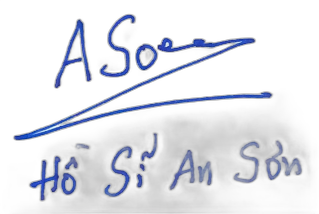
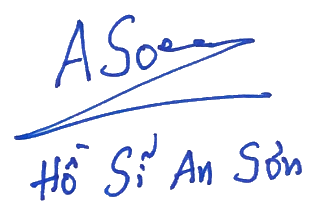
1

Changed region(s): [[0.0846, 0.5607, 0.9592, 1.0], [0.0282, 0.0561, 0.8464, 0.6729]]

diff --git a/cmd/window/edoc_rembg.py b/cmd/window/edoc_rembg.py
@@ -1,0 +1,44 @@
+import argparse
+import os
+import cv2
+from PIL import Image
+
+
+def naive_cutout(img, mask):
+    empty = Image.new("RGBA", (img.size), 0)
+    cutout = Image.composite(img, empty, mask.resize(img.size, Image.LANCZOS))
+    return cutout
+
+
+def remove_background_signature(image_path, output_path):
+    image = cv2.imread(image_path)
+    image = cv2.cvtColor(image, cv2.COLOR_BGR2RGB)
+    gray = cv2.cvtColor(image, cv2.COLOR_BGR2GRAY)
+    blur = cv2.GaussianBlur(gray, (3, 3), 0)
+    thresh = cv2.threshold(blur, 0, 255, cv2.THRESH_BINARY_INV + cv2.THRESH_OTSU)[1]
+    mask = Image.fromarray(thresh).convert("L")
+    img = Image.fromarray(image).convert("RGB")
+    cutout = naive_cutout(img, mask)
+    cutout.save(output_path)
+
+
+def main():
+    ap = argparse.ArgumentParser()
+    ap.add_argument(
+        "-i",
+        "--input",
+        type=str
+    )
+
+    ap.add_argument(
+        "-o",
+        "--output",
+        type=str
+    )
+    args = ap.parse_args()
+    remove_background_signature(args.input, args.output)
+
+
+if __name__ == "__main__":
+    # torch.multiprocessing.set_start_method('spawn')
+    main()

diff --git a/helper/u2net/detect.py b/helper/u2net/detect.py
@@ -1,9 +1,11 @@
-from helper.u2net import u2net, data_loader
-import torch
 import os
+
 import numpy as np
-from torchvision import transforms
+import torch
 from PIL import Image
+from torchvision import transforms
+
+from helper.u2net import u2net, data_loader
 
 
 def load_model(model_name: str = "u2net"):
@@ -12,7 +14,10 @@ def load_model(model_name: str = "u2net"):
         path = '../models/u2net.pth'
     elif model_name == "u2netp":
         net = u2net.U2NETP(3, 1)
-        path = 'D:/Repositories/RemoveBg-Python/helper/models/u2netp.pth'
+        path = os.environ.get(
+            "U2NETP_PATH",
+            os.path.expanduser(os.path.join("~", ".u2net", model_name + ".pth")),
+        )
 
     if torch.cuda.is_available():
         net.load_state_dict(torch.load(path))

diff --git a/main.py b/main.py
@@ -1,5 +1,3 @@
-import matplotlib.pyplot as plt
-
 from helper import bg
 
 alpha_matting = False
@@ -9,7 +7,7 @@ ae = 10
 az = 1000
 model_name = "u2netp"
 
-with open('data/HinhChuKy6.png', 'rb') as fh:
+with open('data/HinhChuKy1.png', 'rb') as fh:
     buf = fh.read()
 
 img_remove = bg.remove(buf, model_name, alpha_matting)
@@ -19,4 +17,4 @@ img_remove = bg.remove(buf, model_name, alpha_matting)
 # plt.imshow(img_remove)
 # plt.show()
 
-img_remove.save('data/Results/HinhChuKy6_rembg.png')
+img_remove.save('data/Results/HinhChuKy1_rembg.png')

diff --git a/helper/bg.py b/helper/bg.py
@@ -168,6 +168,7 @@ def remove(
     img = Image.open(io.BytesIO(data)).convert("RGB")
     mask = detect.predict(model, np.array(img)).convert("L")
 
+    # mask.save(f"D:\Repositories\QLHS\ExternalLibCustom\RemoveBackgroundSignature\data\Mask\HinhChuKy1_mask.png")
     if alpha_matting:
         cutout = alpha_matting_cutout(
             img,
